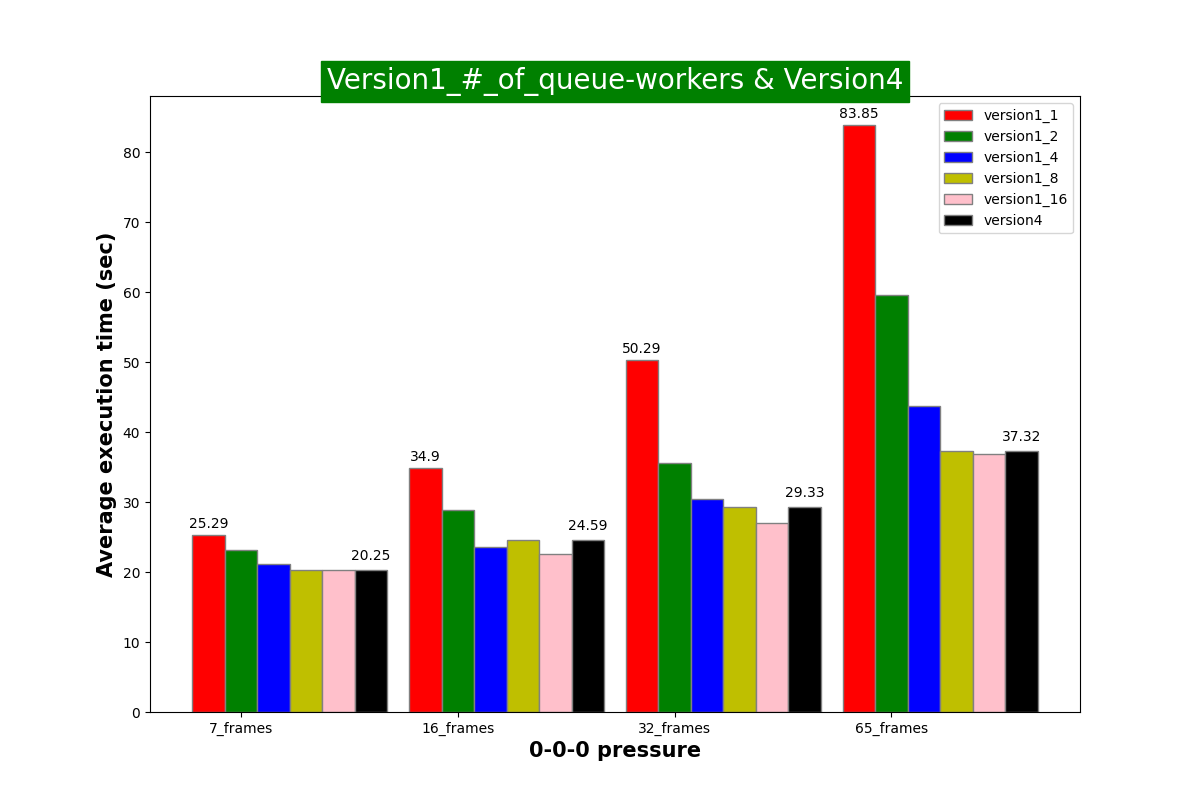
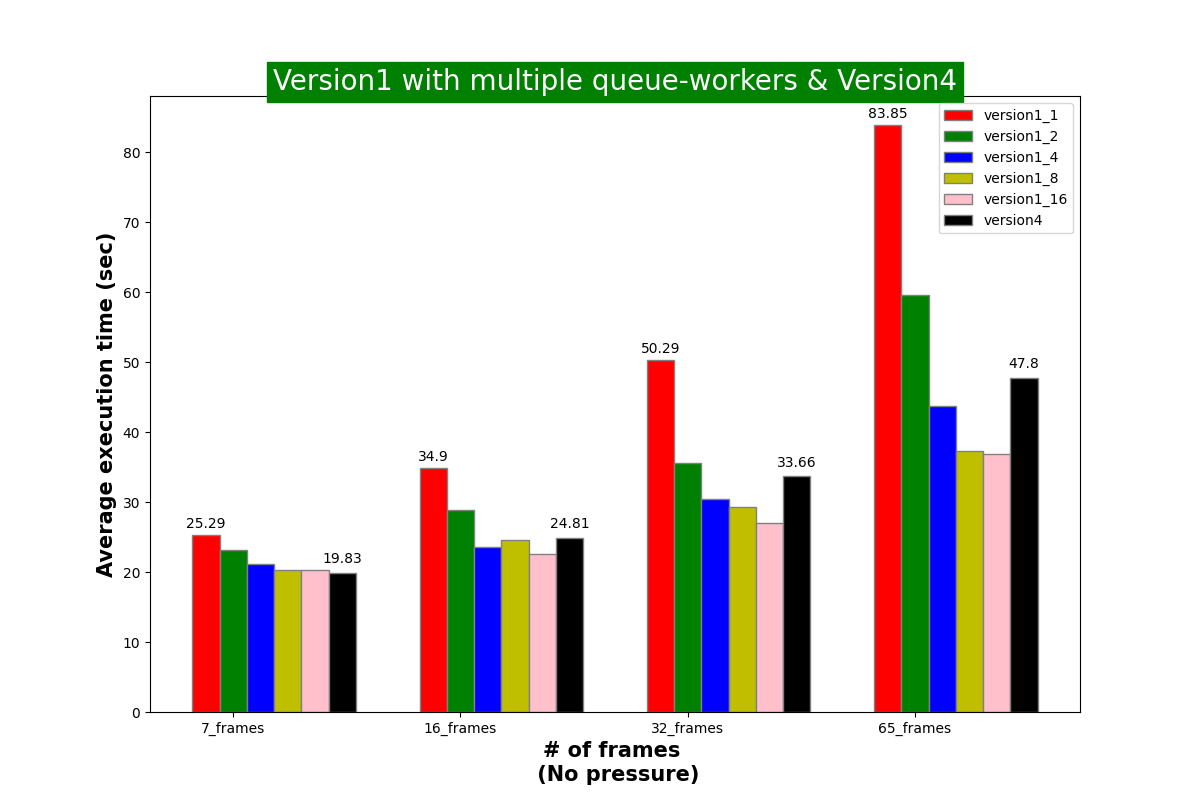
minor

Changed region(s): [[0.2158, 0.0625, 0.8942, 0.9375], [0.1542, 0.4062, 0.6167, 1.0]]

diff --git a/scripts/plotters/plotter3.py b/scripts/plotters/plotter3.py
@@ -4,7 +4,7 @@ import numpy as np
 
 ticks = [1, 2]
 
-barWidth = 0.15
+barWidth = 0.12
 fig, ax = plt.subplots(figsize =(12, 8))
 
 # set height of bar
@@ -34,10 +34,10 @@ rects4 = plt.bar(br4, version1_8, color ='y', width = barWidth,
         edgecolor ='grey', label ='version1_8')
 rects5 = plt.bar(br5, version1_16, color ='pink', width = barWidth,
         edgecolor ='grey', label ='version1_16')
-rects6 = plt.bar(br6, version1_8, color ='black', width = barWidth,
+rects6 = plt.bar(br6, version4, color ='black', width = barWidth,
         edgecolor ='grey', label ='version4')
 
-plt.xlabel('0-0-0 pressure', fontweight ='bold', fontsize = 15)
+plt.xlabel('# of frames \n (No pressure)', fontweight ='bold', fontsize = 15)
 plt.ylabel('Average execution time (sec)', fontweight ='bold', fontsize = 15)
 plt.xticks([r + barWidth for r in range(len(version1_1))], labels)
 
@@ -49,7 +49,7 @@ ax.bar_label(rects1, padding=3, )
 ax.bar_label(rects6, padding=5)
 # function to show the plot
 #plt.show()
-plt.title('Version1_#_of_queue-workers & Version4', fontsize=20, 
+plt.title('Version1 with multiple queue-workers & Version4', fontsize=20, 
         color='white', backgroundcolor='green', pad='2.0')
 plt.legend()
 plt.show()
